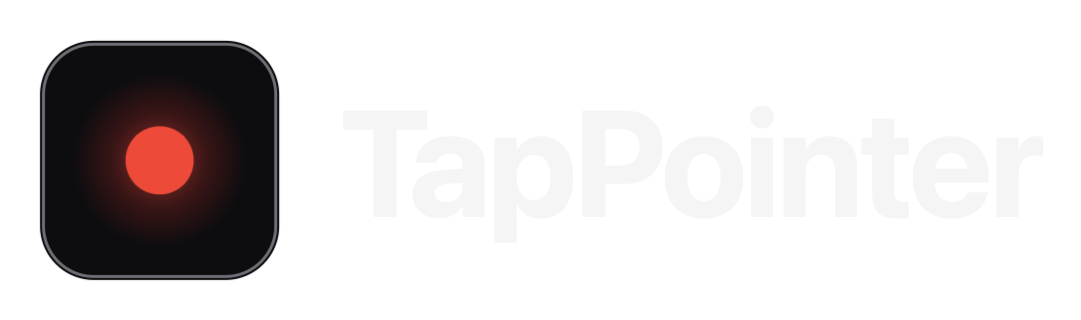
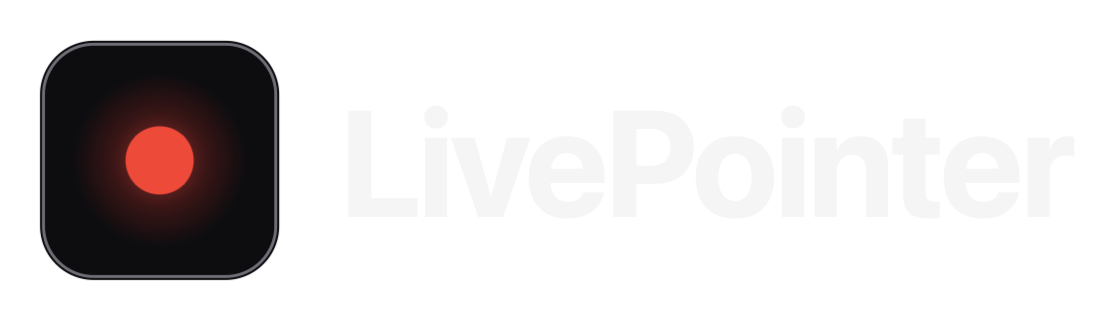
Rename to LivePointer

diff --git a/README.md b/README.md
@@ -1,7 +1,7 @@
 <p align="center">
   <picture>
     <source media="(prefers-color-scheme: dark)" srcset="assets/wordmark-dark.png">
-    <img src="assets/wordmark-light.png" width="520" alt="TapPointer">
+    <img src="assets/wordmark-light.png" width="520" alt="LivePointer">
   </picture>
 </p>
 
@@ -10,21 +10,21 @@
 </p>
 
 <p align="center">
-  <a href="https://github.com/JH-Eric-Yang/TapPointer/releases/latest"><img src="https://img.shields.io/github/v/release/JH-Eric-Yang/TapPointer?label=release&color=8B7CFF" alt="Latest release"></a>
-  <a href="https://github.com/JH-Eric-Yang/TapPointer/releases"><img src="https://img.shields.io/github/downloads/JH-Eric-Yang/TapPointer/total?color=8B7CFF" alt="Downloads"></a>
+  <a href="https://github.com/JH-Eric-Yang/LivePointer/releases/latest"><img src="https://img.shields.io/github/v/release/JH-Eric-Yang/LivePointer?label=release&color=8B7CFF" alt="Latest release"></a>
+  <a href="https://github.com/JH-Eric-Yang/LivePointer/releases"><img src="https://img.shields.io/github/downloads/JH-Eric-Yang/LivePointer/total?color=8B7CFF" alt="Downloads"></a>
   <img src="https://img.shields.io/badge/macOS-15%2B-black" alt="macOS 15 or later">
   <img src="https://img.shields.io/badge/iOS-17%2B-black" alt="iOS 17 or later">
   <img src="https://img.shields.io/badge/Apple-notarized-black" alt="Notarized by Apple">
 </p>
 
 <p align="center">
-  <a href="https://github.com/JH-Eric-Yang/TapPointer/blob/main/assets/tappointer.mp4">
-    <img src="assets/tappointer.gif" width="720" alt="TapPointer in 30 seconds: a phone touch becomes a pointer, a spotlight or a fading ink stroke on the TV">
+  <a href="https://github.com/JH-Eric-Yang/LivePointer/blob/main/assets/livepointer.mp4">
+    <img src="assets/livepointer.gif" width="720" alt="LivePointer in 30 seconds: a phone touch becomes a pointer, a spotlight or a fading ink stroke on the TV">
   </a><br>
-  <sub><a href="https://github.com/JH-Eric-Yang/TapPointer/blob/main/assets/tappointer.mp4">Watch the video with sound</a></sub>
+  <sub><a href="https://github.com/JH-Eric-Yang/LivePointer/blob/main/assets/livepointer.mp4">Watch the video with sound</a></sub>
 </p>
 
-Presenting on a TV? A real laser pointer is useless on it. TapPointer draws the pointer straight into the picture: the Mac app paints a dot, a spotlight or an ink stroke on top of whatever is on your display, and the iPhone app, showing a live preview of that display, is the controller. Wherever your finger touches, the pointer appears on the big screen.
+Presenting on a TV? A real laser pointer is useless on it. LivePointer draws the pointer straight into the picture: the Mac app paints a dot, a spotlight or an ink stroke on top of whatever is on your display, and the iPhone app, showing a live preview of that display, is the controller. Wherever your finger touches, the pointer appears on the big screen.
 
 This repository is the download page for the Mac app. The iPhone app is on the App Store.
 
@@ -32,20 +32,20 @@ This repository is the download page for the Mac app. The iPhone app is on the A
 
 ### Mac
 
-1. Download `TapPointer-<version>.pkg` from the **[latest release](https://github.com/JH-Eric-Yang/TapPointer/releases/latest)**.
-2. Open it and click **Install**. TapPointer starts in the menu bar.
+1. Download `LivePointer-<version>.pkg` from the **[latest release](https://github.com/JH-Eric-Yang/LivePointer/releases/latest)**.
+2. Open it and click **Install**. LivePointer starts in the menu bar.
 3. Allow **Local Network** when macOS asks, so the iPhone can find the Mac.
 
-Prefer to drag and drop? Each release also has `TapPointer-<version>.zip` with the app bundle. Both are signed with an Apple Developer ID and notarized by Apple.
+Prefer to drag and drop? Each release also has `LivePointer-<version>.zip` with the app bundle. Both are signed with an Apple Developer ID and notarized by Apple.
 
 ### iPhone
 
-Get **TapPointer** on the App Store. The Mac app shows a code that opens the listing: *Get the iPhone App…* in the menu bar.
+Get **LivePointer** on the App Store. The Mac app shows a code that opens the listing: *Get the iPhone App…* in the menu bar.
 
 ## Pair once, then open and go
 
-1. Open TapPointer on the Mac. The pairing window appears on first launch.
-2. Open TapPointer on the iPhone. The Mac appears under **Nearby Macs**. Tap it, or scan the code in the pairing window.
+1. Open LivePointer on the Mac. The pairing window appears on first launch.
+2. Open LivePointer on the iPhone. The Mac appears under **Nearby Macs**. Tap it, or scan the code in the pairing window.
 3. If the phone asks, check the safety code matches the one in the Mac's window.
 
 Both devices need the same Wi-Fi network or the iPhone's Personal Hotspot. Pairing is remembered.
@@ -89,7 +89,7 @@ Each permission is asked for when you first use the feature, and each is optiona
 Yes. The iPhone app is a one-time purchase on the App Store.
 
 **The Mac doesn't show up on the phone.**
-Check both devices are on the same Wi-Fi or hotspot, that TapPointer is running on the Mac, and that Local Network is allowed for TapPointer on both the Mac (System Settings) and the iPhone (Settings).
+Check both devices are on the same Wi-Fi or hotspot, that LivePointer is running on the Mac, and that Local Network is allowed for LivePointer on both the Mac (System Settings) and the iPhone (Settings).
 
 **Why does the phone ask me to check a safety code?**
 The phone trusts only your Mac's own certificate. The code lets you confirm it's your Mac the first time, or after the Mac was reset. Pair only if the codes match.
@@ -105,11 +105,11 @@ Yes, with a one-time certificate profile. The steps are under *Advanced* in the 
 
 ## Support
 
-Found a problem? [Open an issue](https://github.com/JH-Eric-Yang/TapPointer/issues) with your macOS and iOS versions and what you expected to happen.
+Found a problem? [Open an issue](https://github.com/JH-Eric-Yang/LivePointer/issues) with your macOS and iOS versions and what you expected to happen.
 
 ---
 
 <p align="center">
   Copyright © 2026 Jiahao Yang. All rights reserved.<br>
-  TapPointer is distributed as a signed and notarized download. The source code is not published here.
+  LivePointer is distributed as a signed and notarized download. The source code is not published here.
 </p>
